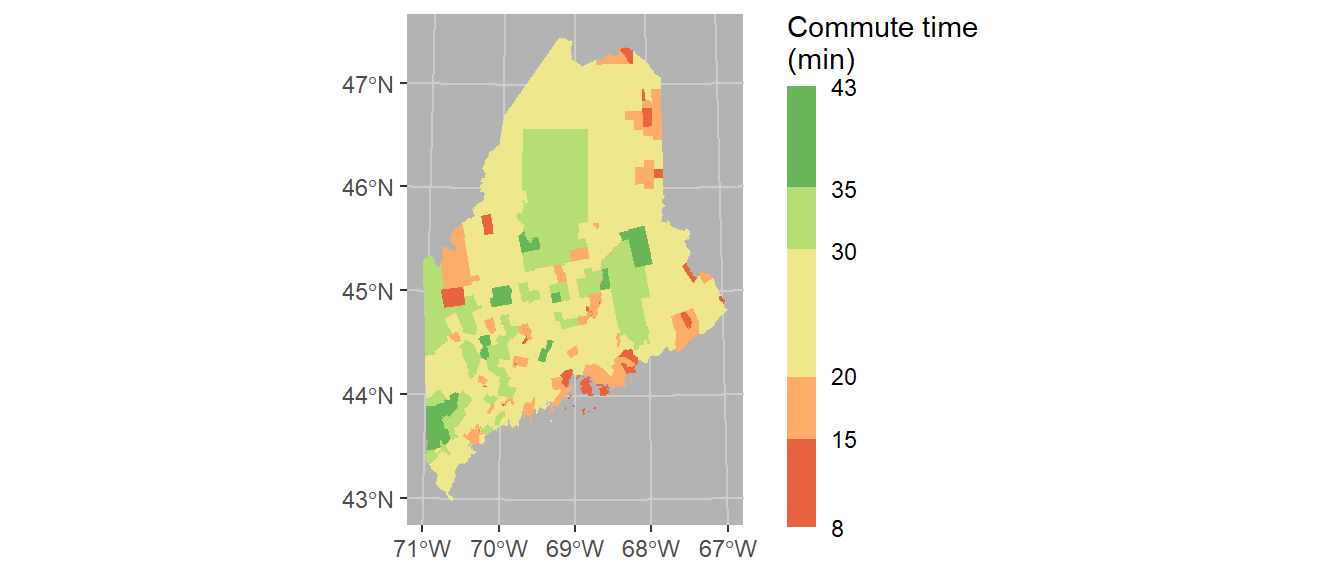
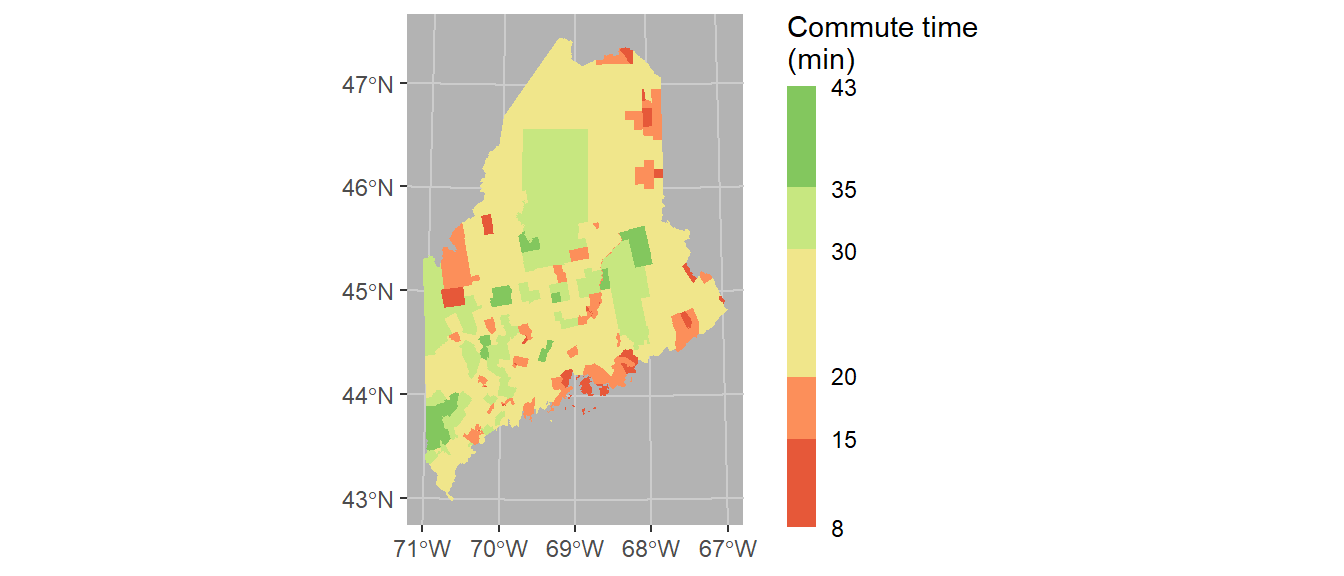
fixed scale_fill_stepsn syntax

diff --git a/Week12a.html b/Week12a.html
@@ -816,13 +816,14 @@ maps
 <a class="sourceLine" id="cb8-3" title="3"><span class="st">  </span><span class="kw">scale_fill_stepsn</span>(<span class="dt">colors =</span> <span class="kw">c</span>(<span class="st">&quot;#D73027&quot;</span>, <span class="st">&quot;#FC8D59&quot;</span>, <span class="st">&quot;#FEE08B&quot;</span>, </a>
 <a class="sourceLine" id="cb8-4" title="4">                               <span class="st">&quot;#D9EF8B&quot;</span>, <span class="st">&quot;#91CF60&quot;</span>, <span class="st">&quot;#1A9850&quot;</span>) ,</a>
 <a class="sourceLine" id="cb8-5" title="5">                    <span class="dt">breaks =</span> <span class="kw">c</span>(<span class="dv">5</span>, <span class="dv">15</span>, <span class="dv">20</span>, <span class="dv">30</span>, <span class="dv">35</span>),</a>
-<a class="sourceLine" id="cb8-6" title="6">                    <span class="dt">guide =</span> <span class="kw">guide_coloursteps</span>(<span class="dt">even.steps =</span> <span class="ot">FALSE</span>,</a>
-<a class="sourceLine" id="cb8-7" title="7">                                              <span class="dt">show.limits =</span> <span class="ot">TRUE</span>,</a>
-<a class="sourceLine" id="cb8-8" title="8">                                              <span class="dt">title =</span> <span class="st">&quot;Commute time </span><span class="ch">\n</span><span class="st">(min)&quot;</span>,</a>
-<a class="sourceLine" id="cb8-9" title="9">                                              <span class="dt">barheight =</span> <span class="kw">unit</span>(<span class="fl">2.3</span>, <span class="st">&quot;in&quot;</span>),</a>
-<a class="sourceLine" id="cb8-10" title="10">                                              <span class="dt">barwidth =</span> <span class="kw">unit</span>(<span class="fl">0.15</span>, <span class="st">&quot;in&quot;</span>))) <span class="op">+</span></a>
-<a class="sourceLine" id="cb8-11" title="11"><span class="st">  </span><span class="kw">theme</span>(<span class="dt">panel.grid =</span> <span class="kw">element_line</span>(<span class="dt">color =</span> <span class="st">&quot;grey80&quot;</span>),</a>
-<a class="sourceLine" id="cb8-12" title="12">        <span class="dt">panel.background =</span> <span class="kw">element_rect</span>(<span class="dt">fill =</span> <span class="st">&quot;grey70&quot;</span>))</a></code></pre></div>
+<a class="sourceLine" id="cb8-6" title="6">                    <span class="dt">values =</span> scales<span class="op">::</span><span class="kw">rescale</span>(<span class="kw">c</span>(<span class="dv">5</span>, <span class="dv">15</span>, <span class="dv">20</span>, <span class="dv">30</span>, <span class="dv">35</span>), <span class="kw">c</span>(<span class="dv">0</span>,<span class="dv">1</span>)),</a>
+<a class="sourceLine" id="cb8-7" title="7">                    <span class="dt">guide =</span> <span class="kw">guide_coloursteps</span>(<span class="dt">even.steps =</span> <span class="ot">FALSE</span>,</a>
+<a class="sourceLine" id="cb8-8" title="8">                                              <span class="dt">show.limits =</span> <span class="ot">TRUE</span>,</a>
+<a class="sourceLine" id="cb8-9" title="9">                                              <span class="dt">title =</span> <span class="st">&quot;Commute time </span><span class="ch">\n</span><span class="st">(min)&quot;</span>,</a>
+<a class="sourceLine" id="cb8-10" title="10">                                              <span class="dt">barheight =</span> <span class="kw">unit</span>(<span class="fl">2.3</span>, <span class="st">&quot;in&quot;</span>),</a>
+<a class="sourceLine" id="cb8-11" title="11">                                              <span class="dt">barwidth =</span> <span class="kw">unit</span>(<span class="fl">0.15</span>, <span class="st">&quot;in&quot;</span>))) <span class="op">+</span></a>
+<a class="sourceLine" id="cb8-12" title="12"><span class="st">  </span><span class="kw">theme</span>(<span class="dt">panel.grid =</span> <span class="kw">element_line</span>(<span class="dt">color =</span> <span class="st">&quot;grey80&quot;</span>),</a>
+<a class="sourceLine" id="cb8-13" title="13">        <span class="dt">panel.background =</span> <span class="kw">element_rect</span>(<span class="dt">fill =</span> <span class="st">&quot;grey70&quot;</span>))</a></code></pre></div>
 <p><img src="Week12a_files/figure-html/unnamed-chunk-10-1.png" width="672" /></p>
 </div>
 <div id="mapping-with-tmap" class="section level2">
